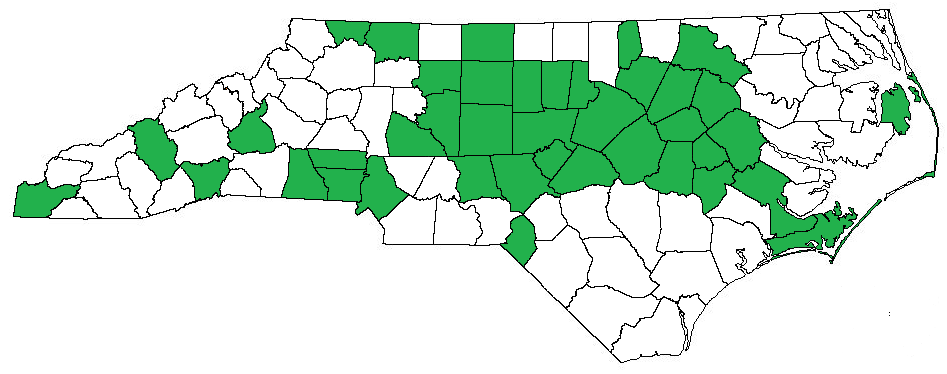
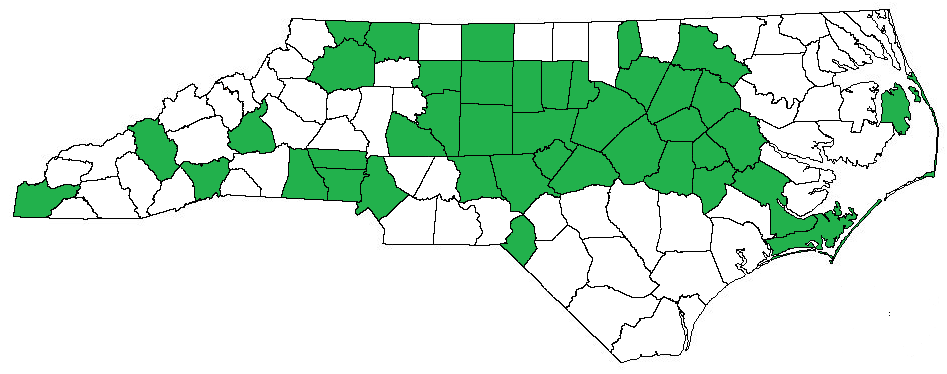
3/21 bbq and main page update

Changed region(s): [[0.3062, 0.0882, 0.3981, 0.2647]]

diff --git a/bbq/index.html b/bbq/index.html
@@ -52,10 +52,10 @@ Both use vinegar as their base for the sauce, often with red pepper (among other
 <br>
 <center>
 	<h2>Current County Counter</h2>
-	<h3><span style="color:red">40</span> / 100</h3>
-	<h3>56 different in-state BBQ joints</h3>
+	<h3><span style="color:red">41</span> / 100</h3>
+	<h3>57 different in-state BBQ joints</h3>
 	<h3>1 annual BBQ event</h3>
-	<p>(last updated 3/13/2022)</p>
+	<p>(last updated 3/21/2022)</p>
 </center>
 <br>
 
@@ -273,6 +273,11 @@ Both use vinegar as their base for the sauce, often with red pepper (among other
 	<li>Wilber's BBQ (original ownership) - Goldsboro - circa 2017 - <i><span class="ncbsbbq">NCBS BBQ Trail</span></i>; <i><span class="ncbsbbq">True 'Cue NC</span></i></li>
 </ul>
 <br>
+<p><b>Wilkes County</b></p>
+<ul>
+	<li>Pa Paw's BBQ - North Wilkesboro - 3/17/2022 - <a href="https://drive.google.com/drive/folders/1srYImBWTBbbIKGPOo3EIQvex4MGNB31X?usp=sharing">pictures</a></li>
+</ul>
+<br>
 <p><b>Wilson County</b></p>
 <ul>
 	<li>Parker's BBQ - Wilson - 8/4/2018, 2/10/2019, and 12/13/2019</li>
@@ -281,6 +286,8 @@ Both use vinegar as their base for the sauce, often with red pepper (among other
 <p><b>Honorable Mentions from Out-Of-State</b></p>
 <ul>
 	<li>Brasstown Creek Gathering Place - Westminster, SC - 9/10/2021 - <a href="https://drive.google.com/drive/folders/1lq1vDgb92Gz9YwGpsDHhyQuUMEMgtkik?usp=sharing">pictures</a></li>
+	<li>Old Hickory Bar-B-Q - Owensboro, KY - 3/18/2022 - <a href="https://drive.google.com/drive/folders/1Dcx_spnUTr0c--TO2iwmNEr-izvnPWHE?usp=sharing">pictures</a> (first place I tried western KY's mutton barbecue)</li>
+	<li>The Wood Shed Bar-B-Q - Hopkinsville, KY - 3/19/2022 - <a href="https://drive.google.com/drive/folders/16wLD3o3S-57_xbII_ExMz_qJifY_u7ov?usp=sharing">pictures</a> (first place I tried Kentucky/midwestern classic burgoo)</li>
 </ul>
 
 

diff --git a/index.html b/index.html
@@ -49,7 +49,7 @@
 	<li>Football</li>
 	<ul>
 		<li>3/10/2022 - <a href="https://sportsvana.tv/2022/03/10/the-history-of-overtime-and-football-part-1-the-nfl/">The History of Overtime and Football: Part 1 – The NFL</a></li>
-		<li><i>pending</i> - The History of Overtime and Football: Part 2 – College Football</li>
+		<li>3/17/2022 - <a href="https://sportsvana.tv/2022/03/17/the-history-of-overtime-and-football-part-2-college-football/">The History of Overtime and Football: Part 2 – College Football</a></li>
 		<li><i>pending</i> - The History of Overtime and Football: Part 3 – Other Options</li>
 	</ul>
 	<br>
@@ -59,6 +59,7 @@
 		<li>2/28/2022 - <a href="https://sportsvana.tv/2022/03/01/pack9-week-1/">NC State Baseball - Week 1</a></li>
 		<li>3/7/2022 - <a href="https://sportsvana.tv/2022/03/07/pack-9-week-2/">NC State Baseball - Week 2</a></li>
 		<li>3/14/2022 - <a href="https://sportsvana.tv/2022/03/15/pack-9-week-3/">NC State Baseball - Week 3</a></li>
+		<li>3/21/2022 - <a href="https://sportsvana.tv/2022/03/22/pack-9-week-4/">NC State Baseball - Week 4</a></li>
 	</ul>
 </ul>
 
